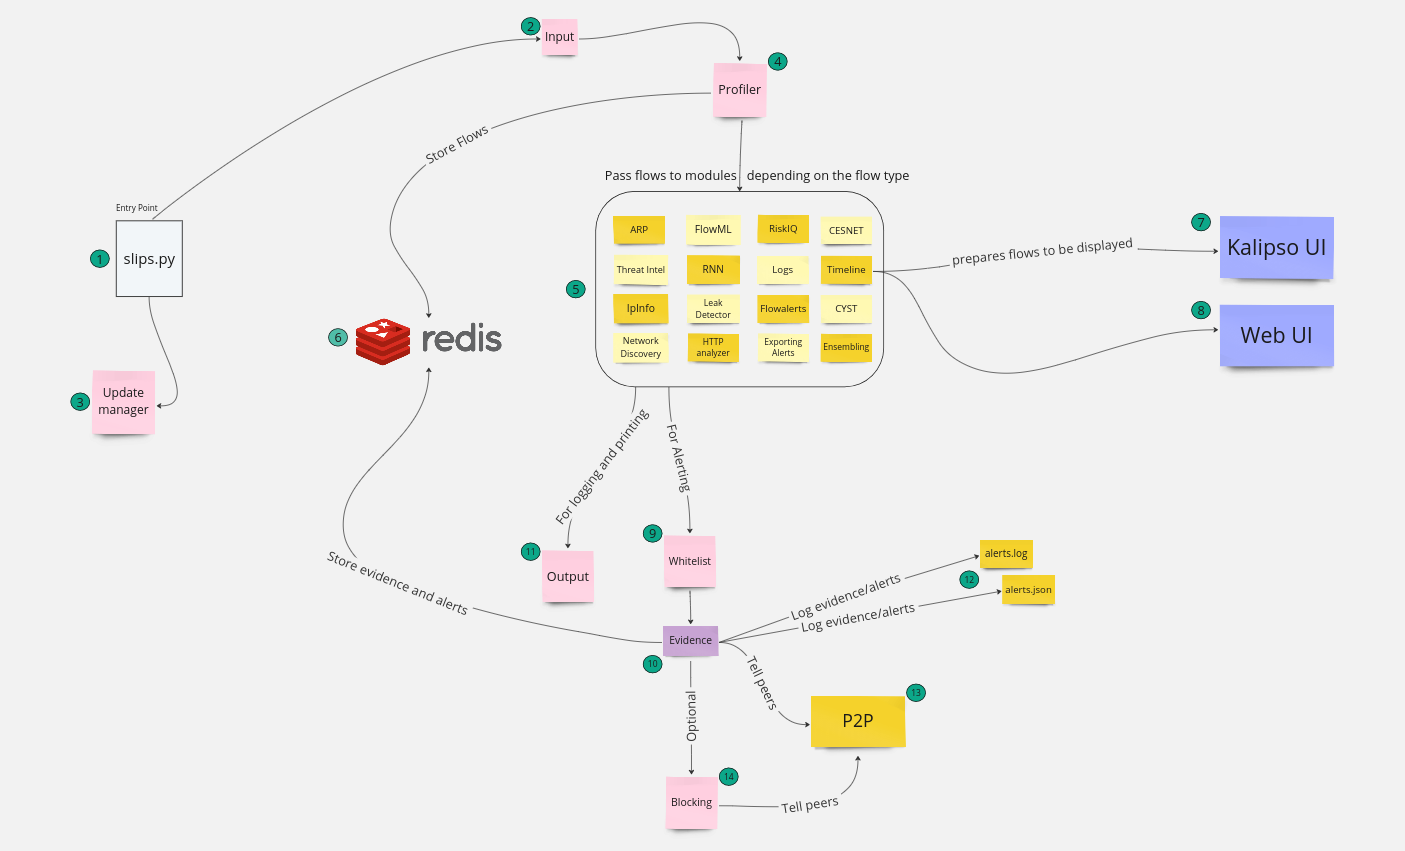
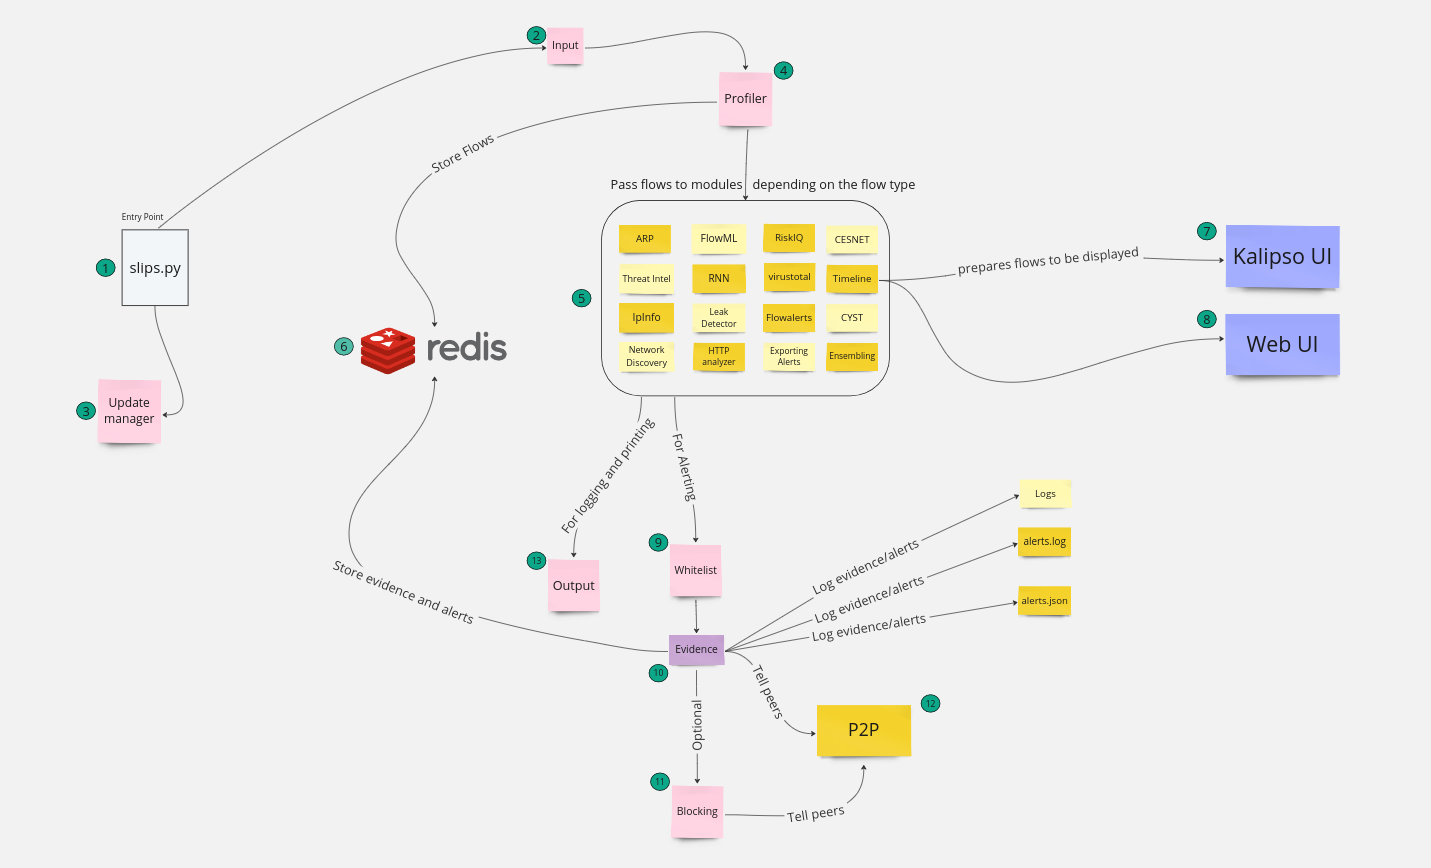
docs: add a brief explanation of how slips works

diff --git a/docs/code_documentation.md b/docs/code_documentation.md
@@ -4,6 +4,36 @@
 
 <img src="https://raw.githubusercontent.com/stratosphereips/StratosphereLinuxIPS/develop/docs/images/slips_workflow.png" title="Slips Workflow">
 
-TODO: explain all points in the graph 
+1. slips.py is the entry point, it's responsible for starting all modules, and keeping slips up until the analysis is finished.
+2. slips.py starts the input process, which is the one responsible for reading the flows from the files given to slips using -f 
+it detects the type of file, reads it and passes the flows to the profiler process. if slips was given a PCAP or is running on an interface
+, the input process starts a zeek thread that analyzes the pcap/interface using slips' own zeek configuration and sends the generated zeek
+flows to the profiler process.  
+3. slips.py also starts the update manager, it updates slips local TI files, like the ones stored in slips_files/organizations_info and slips_files/ports_info.
+later, when slips is starting all the modules, slips also starts the update manager but to update remote TI files in the background in this case.
+4. Once the profiler process receives the flows read by the input process, it starts to convert them to a structure that slips can deal with. 
+it creates profiles and timewindows for each IP it encounters.
+5. Profiler process gives each flow to the appropriate module to deal with it. for example flows from http.log will be sent to http_analyzer.py 
+to analyze them.
+6. It also stores the flows, profiles, etc. in the database for later processing. the info stored in the db will be used by all modules later.
+7-8. using the flows stored in the db in step 6 and with the help of the timeline module, slips puts the given flows in a human-readable form which is 
+then used by the web UI and kalipso UI.
+9. when a module finds a detection, it sends the detection to the evidence process to deal with it (step 10) but first, this evidence is checked by the whitelist to see if it's
+whitelisted in our config/whitelist.conf or not. if the evidence is whitelisted, it will be discarded and won't go through the next steps
+10. now that we're sure that the evidence isn't whitelisted, the evidence process logs it to slips log files and gives the evidence to all modules responsible for exporting
+evidence. so, if CEST, Exporting modules, or CYST is enabled, the evidence process notifies them
+through redis channels that it found an evidence and it's time to share the evidence.
+11. if the blocking module is enabled using -p, the evidence process shares all detected alerts to the blocking module. and the blocking module handles
+the blocking of the attacker IP through the linux firewall (supported in linux only)
+12. if p2p is enabled in config/slips.conf, the p2p module shares the IP of the attacker, its' score and blocking requests sent by the evidence process 
+with other peers in the network so they can block the attackers before they reach them.
+13. The output process is slips custom logging framework. all alerts, warnings and info printed are sent here first for proper formatting and printing.
+
+This is a brief explanation of how slips works for new contributors.
+
+All modules described above are talked about in more detail in the rest of the documentation. 
+
+
+### Code Docs
 
 [Slips auto-generated code documentation here](https://stratosphereips.github.io/StratosphereLinuxIPS/files.html)
